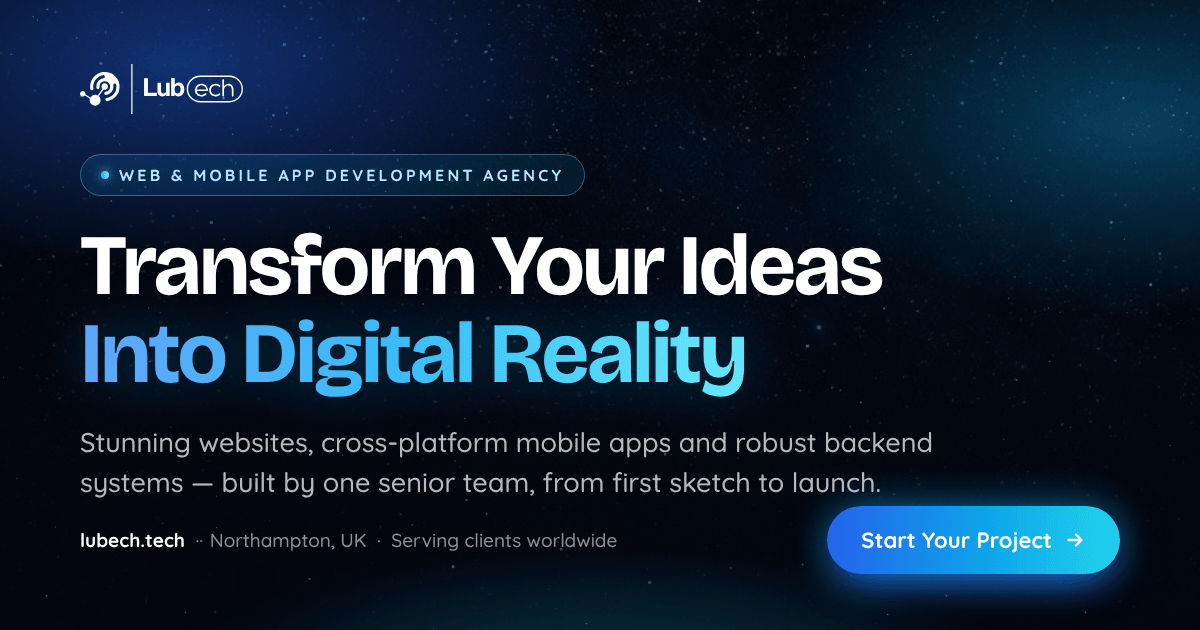
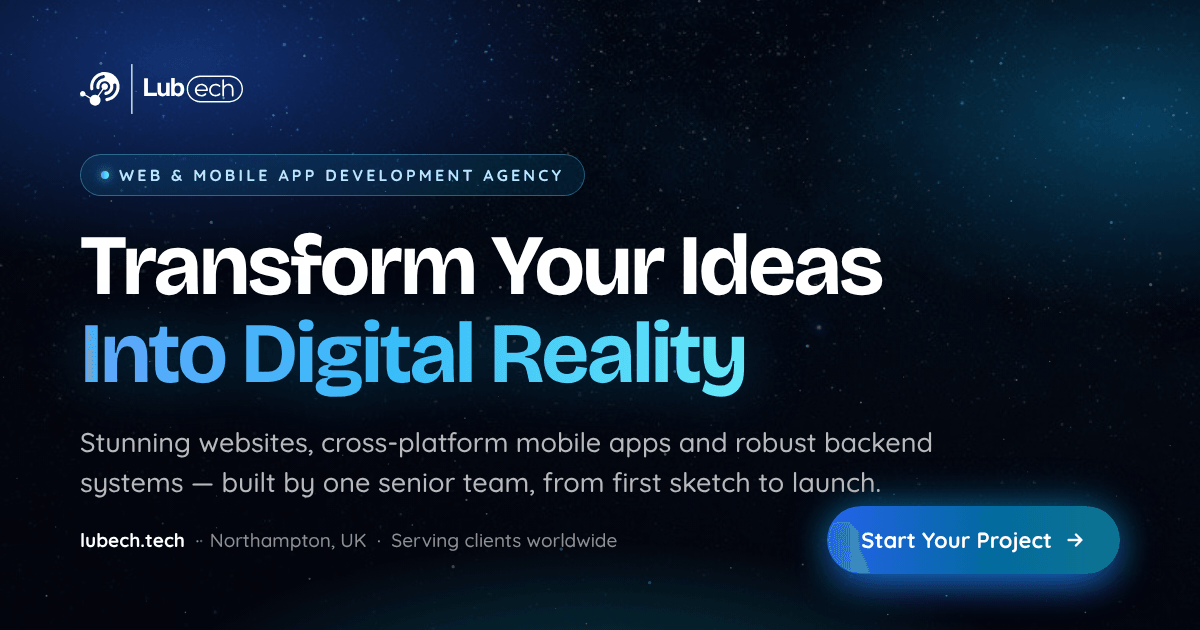
Lift filled-gradient contrast to WCAG AA
The white labels on the primary button, step badges, filter pill, avatars
and check bullets sat on a blue-600 -> sky-600 -> cyan-600 fill whose
cyan end only reached 3.7:1. The fill now runs blue-600 -> sky-700 ->
cyan-700 (5.2 / 5.9 / 5.4 : 1), so the label meets AA along the whole
gradient while the neon character stays in the glow and gradient text.
Contact e-mail template, OG card and README updated to match.

Changed region(s): [[0.6783, 0.7841, 0.9558, 0.9349]]

diff --git a/src/components/sections/Process.tsx b/src/components/sections/Process.tsx
@@ -196,7 +196,7 @@ function PinnedStep({ index, progress, step, title, description, duration, icon:
             style={{ opacity: ringOpacity }}
             className="animate-pulse-glow absolute inset-1 rounded-full bg-sky-500/25"
           />
-          <span className="relative flex h-10 w-10 items-center justify-center rounded-full bg-gradient-to-br from-blue-600 via-sky-600 to-cyan-600 text-white shadow-[inset_0_1px_0_rgba(255,255,255,0.25)]">
+          <span className="relative flex h-10 w-10 items-center justify-center rounded-full bg-gradient-to-br from-blue-600 via-sky-700 to-cyan-700 text-white shadow-[inset_0_1px_0_rgba(255,255,255,0.25)]">
             <Icon className="h-[18px] w-[18px]" aria-hidden />
           </span>
         </motion.span>
@@ -268,7 +268,7 @@ function StackedProcess() {
                 <div className="relative z-10 shrink-0">
                   <span className="relative flex h-14 w-14 items-center justify-center rounded-full border border-sky-300/30 bg-[#0a0a12] shadow-[0_0_0_6px_rgba(37,99,235,0.08),0_0_30px_rgba(14,165,233,0.45)]">
                     <span aria-hidden className="animate-pulse-glow absolute inset-2 rounded-full bg-sky-500/20" />
-                    <span className="relative flex h-10 w-10 items-center justify-center rounded-full bg-gradient-to-br from-blue-600 via-sky-600 to-cyan-600 text-white shadow-[inset_0_1px_0_rgba(255,255,255,0.25)]">
+                    <span className="relative flex h-10 w-10 items-center justify-center rounded-full bg-gradient-to-br from-blue-600 via-sky-700 to-cyan-700 text-white shadow-[inset_0_1px_0_rgba(255,255,255,0.25)]">
                       <Icon className="h-[18px] w-[18px]" aria-hidden />
                     </span>
                   </span>

diff --git a/src/components/sections/FinalCTA.tsx b/src/components/sections/FinalCTA.tsx
@@ -153,7 +153,7 @@ export default function FinalCTA() {
               <div className="bg-[#0a0a12]/80 p-8 backdrop-blur-xl sm:p-10">
                 {status === "sent" ? (
                   <div className="flex h-full flex-col items-center justify-center py-10 text-center">
-                    <span className="flex h-16 w-16 items-center justify-center rounded-full bg-gradient-to-br from-blue-600 to-cyan-600 shadow-[0_0_40px_rgba(14,165,233,0.6)]">
+                    <span className="flex h-16 w-16 items-center justify-center rounded-full bg-gradient-to-br from-blue-600 to-cyan-700 shadow-[0_0_40px_rgba(14,165,233,0.6)]">
                       <CheckCircle2 className="h-8 w-8 text-white" aria-hidden />
                     </span>
                     <h3 className="mt-6 font-heading text-2xl font-bold text-white">Message received!</h3>

diff --git a/src/components/sections/WhoItsFor.tsx b/src/components/sections/WhoItsFor.tsx
@@ -70,7 +70,7 @@ export default function WhoItsFor() {
                       key={p}
                       className="flex items-start gap-3 rounded-xl border border-white/[0.06] bg-white/[0.025] px-3.5 py-3 text-sm text-white/75"
                     >
-                      <span className="mt-0.5 inline-flex h-5 w-5 shrink-0 items-center justify-center rounded-full bg-gradient-to-br from-blue-600 to-cyan-600 shadow-[0_0_12px_rgba(14,165,233,0.6)]">
+                      <span className="mt-0.5 inline-flex h-5 w-5 shrink-0 items-center justify-center rounded-full bg-gradient-to-br from-blue-600 to-cyan-700 shadow-[0_0_12px_rgba(14,165,233,0.6)]">
                         <Check className="h-3 w-3 text-white" strokeWidth={3} aria-hidden />
                       </span>
                       {p}

diff --git a/src/components/sections/WhyLubech.tsx b/src/components/sections/WhyLubech.tsx
@@ -94,7 +94,7 @@ export default function WhyLubech() {
                 {`“${t.content}”`}
               </SplitText>
               <figcaption className="mt-6 flex items-center gap-3 border-t border-white/[0.06] pt-5">
-                <span className="flex h-10 w-10 items-center justify-center rounded-full bg-gradient-to-br from-blue-600 to-cyan-600 font-heading text-sm font-bold text-white">
+                <span className="flex h-10 w-10 items-center justify-center rounded-full bg-gradient-to-br from-blue-600 to-cyan-700 font-heading text-sm font-bold text-white">
                   {t.name.split(" ").map((n) => n[0]).join("")}
                 </span>
                 <div>

diff --git a/src/components/sections/Projects.tsx b/src/components/sections/Projects.tsx
@@ -226,7 +226,7 @@ export default function Projects() {
                     <motion.span
                       layoutId="filter-pill"
                       transition={{ type: "spring", stiffness: 380, damping: 32 }}
-                      className="absolute inset-0 rounded-full bg-gradient-to-r from-blue-600 via-sky-600 to-cyan-600 shadow-[0_0_24px_-6px_rgba(14,165,233,0.8)]"
+                      className="absolute inset-0 rounded-full bg-gradient-to-r from-blue-600 via-sky-700 to-cyan-700 shadow-[0_0_24px_-6px_rgba(14,165,233,0.8)]"
                     />
                   ) : null}
                   <span className="relative">{f.label}</span>

diff --git a/src/app/api/contact/route.ts b/src/app/api/contact/route.ts
@@ -24,7 +24,7 @@ const EMAIL_RE = /^[^\s@]+@[^\s@]+\.[^\s@]+$/;
 
 /* ── E-mail layout (brand: deep black + blue → cyan) ─────────────────── */
 
-const GRADIENT = "linear-gradient(135deg, #2563eb 0%, #0284c7 55%, #0891b2 100%)";
+const GRADIENT = "linear-gradient(135deg, #2563eb 0%, #0369a1 55%, #0e7490 100%)";
 
 function shell(headline: string, body: string): string {
   return `

diff --git a/src/app/globals.css b/src/app/globals.css
@@ -421,8 +421,8 @@
     background-image: linear-gradient(
       135deg,
       #2563eb 0%,
-      #0284c7 52%,
-      #0891b2 100%
+      #0369a1 52%,
+      #0e7490 100%
     );
     box-shadow: var(--shadow-button);
     transition:

diff --git a/README.md b/README.md
@@ -57,7 +57,7 @@ presentational.
 | Token            | Value                                              |
 | ---------------- | -------------------------------------------------- |
 | Background       | `#05050A` → `#0A0A12`                              |
-| Accent gradient  | `#2563eb` → `#0ea5e9` → `#22d3ee` (blue → sky → cyan; filled buttons/badges use the deeper `#2563eb → #0284c7 → #0891b2` run so white labels keep ≥ 3.7:1 contrast) |
+| Accent gradient  | `#2563eb` → `#0ea5e9` → `#22d3ee` (blue → sky → cyan; filled buttons/badges use the deeper `#2563eb → #0369a1 → #0e7490` run so white labels meet WCAG AA (≥ 4.5:1) along the whole gradient) |
 | Headings         | Bricolage Grotesque (self-hosted, `public/fonts/bricolage`) — 36/48 pt display cut for h1/h2, 14 pt text cut for h3–h6 |
 | Body             | Quicksand (self-hosted, `public/fonts/quicksand`)  |
 | Cards            | `.glow-card` – dark, 1px blue border, soft glow, cursor spotlight |
